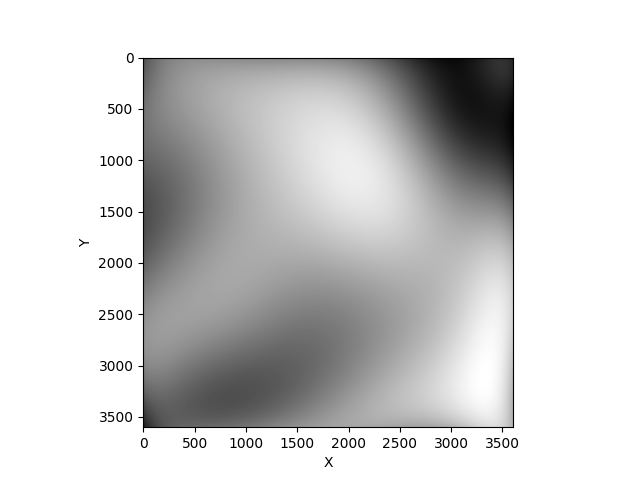
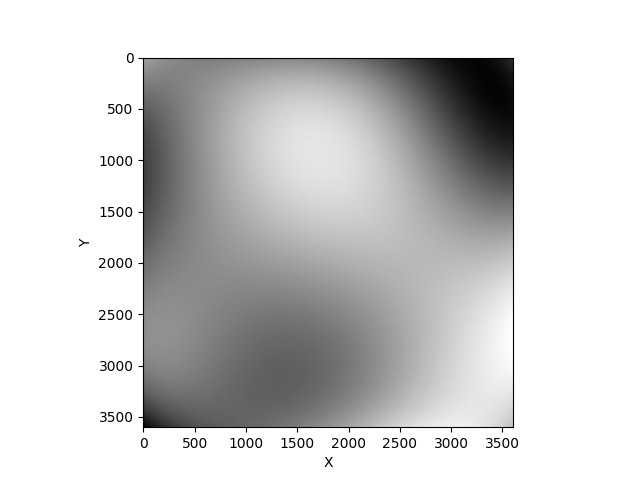
Fixed the *I don't know why D isn't work don't touch it* bug. MaScaled Korea

diff --git a/project1/code/f.py b/project1/code/f.py
@@ -23,7 +23,7 @@ for x,y in xy_array:
     z.append(terrain[x,y])
 z=np.array(z)
 print(np.shape(terrain))
-maxdeg=8
+maxdeg=5
 n_bootstraps=100
 MSE_train=np.zeros(maxdeg)
 MSE_test=np.zeros(maxdeg)
@@ -32,20 +32,21 @@ variance=np.zeros(maxdeg)
 R2_train=np.zeros(maxdeg)
 R2_test=np.zeros(maxdeg)
 for deg in range(maxdeg,maxdeg+1):
-    X=DesignMatrix_deg2(xs,ys,deg,True)
+    X=DesignMatrix_deg2(xs,ys,deg)
     #print(X)
     #X_shuffled=X.copy()
     #np.random.shuffle(X_shuffled)
     #print(X_shuffled)
     X_train, X_test, z_train, z_test = train_test_split(X,z, test_size=0.25)
-    z_train_scaled=z_train#-np.mean(z_train)
-    z_test_scaled=z_test#-np.mean(z_train)
-    #scaler=StandardScaler()
-    #scaler.fit(X_train)
-    X_train_scaled=X_train
-    X_test_scaled=X_test
-    #X_train_scaled=scaler.transform(X_train)
-    #X_test_scaled=scaler.transform(X_test)
+    mean_val=np.mean(z_train)
+    z_train_scaled=z_train-mean_val
+    z_test_scaled=z_test-mean_val
+    scaler=StandardScaler()
+    scaler.fit(X_train)
+    X_train_scaled=scaler.transform(X_train)
+    X_test_scaled=scaler.transform(X_test)
+    #X_train_scaled=X_train
+    #X_test_scaled=X_test
     beta, beta_variance = LinearRegression(X_train_scaled,z_train_scaled)
     z_train_scaled_fit=X_train_scaled@beta
     MSE_train[deg-1]+=(MSE(z_train_scaled,z_train_scaled_fit))
@@ -68,8 +69,8 @@ print(np.shape(terrain_fit))
 x, y = np.meshgrid(x,y)
 x=x.ravel()
 y=y.ravel()
-X=DesignMatrix_deg2(x,y,deg,True)
-z=X @ beta
+X=scaler.transform(DesignMatrix_deg2(x,y,deg))
+z=X @ beta+mean_val
 print("z: ")
 print(np.shape(z))
 for i in range(lenx):

diff --git a/project1/code/d.py b/project1/code/d.py
@@ -27,7 +27,7 @@ csv_Lambdaval_comp = True
 datapoints=2000
 x=np.random.uniform(0,1,datapoints)
 y=np.random.uniform(0,1,datapoints)
-z=FrankeFunction(x,y)+np.random.normal(0,0.5, datapoints)
+z=FrankeFunction(x,y)+np.random.normal(0,0.3, datapoints)
 
 MSE_test_kfoldRidge_lambda = np.zeros(nr_lambdas)
 
@@ -39,8 +39,8 @@ MSE_test_boot = np.zeros(maxdeg-mindeg +1)
 for deg in range(mindeg,maxdeg+1):
     X=DesignMatrix_deg2(x,y,deg)
     X_train, X_test, z_train, z_test = train_test_split(X,z, test_size=0.25)
-    z_train_scaled=z_train#-np.mean(z_train)
-    z_test_scaled=z_test#-np.mean(z_train)
+    z_train_scaled=z_train-np.mean(z_train)
+    z_test_scaled=z_test-np.mean(z_train)
     #scaler=StandardScaler()
     #scaler.fit(X_train)
     X_train_scaled=X_train

diff --git a/project1/code/small_function_library.py b/project1/code/small_function_library.py
@@ -244,7 +244,7 @@ def KCrossValMSE(X,z,k,scaling = True):
     #init empty MSE array
     MSE_crossval = np.zeros(k)
     #redef scaler, with_mean = True
-    scaler = StandardScaler(with_mean=True)
+    scaler = StandardScaler()
     for i in range(k):
         X_training = X[trainIndx[i],:]
         X_testing = X[testIndx[i],:]
